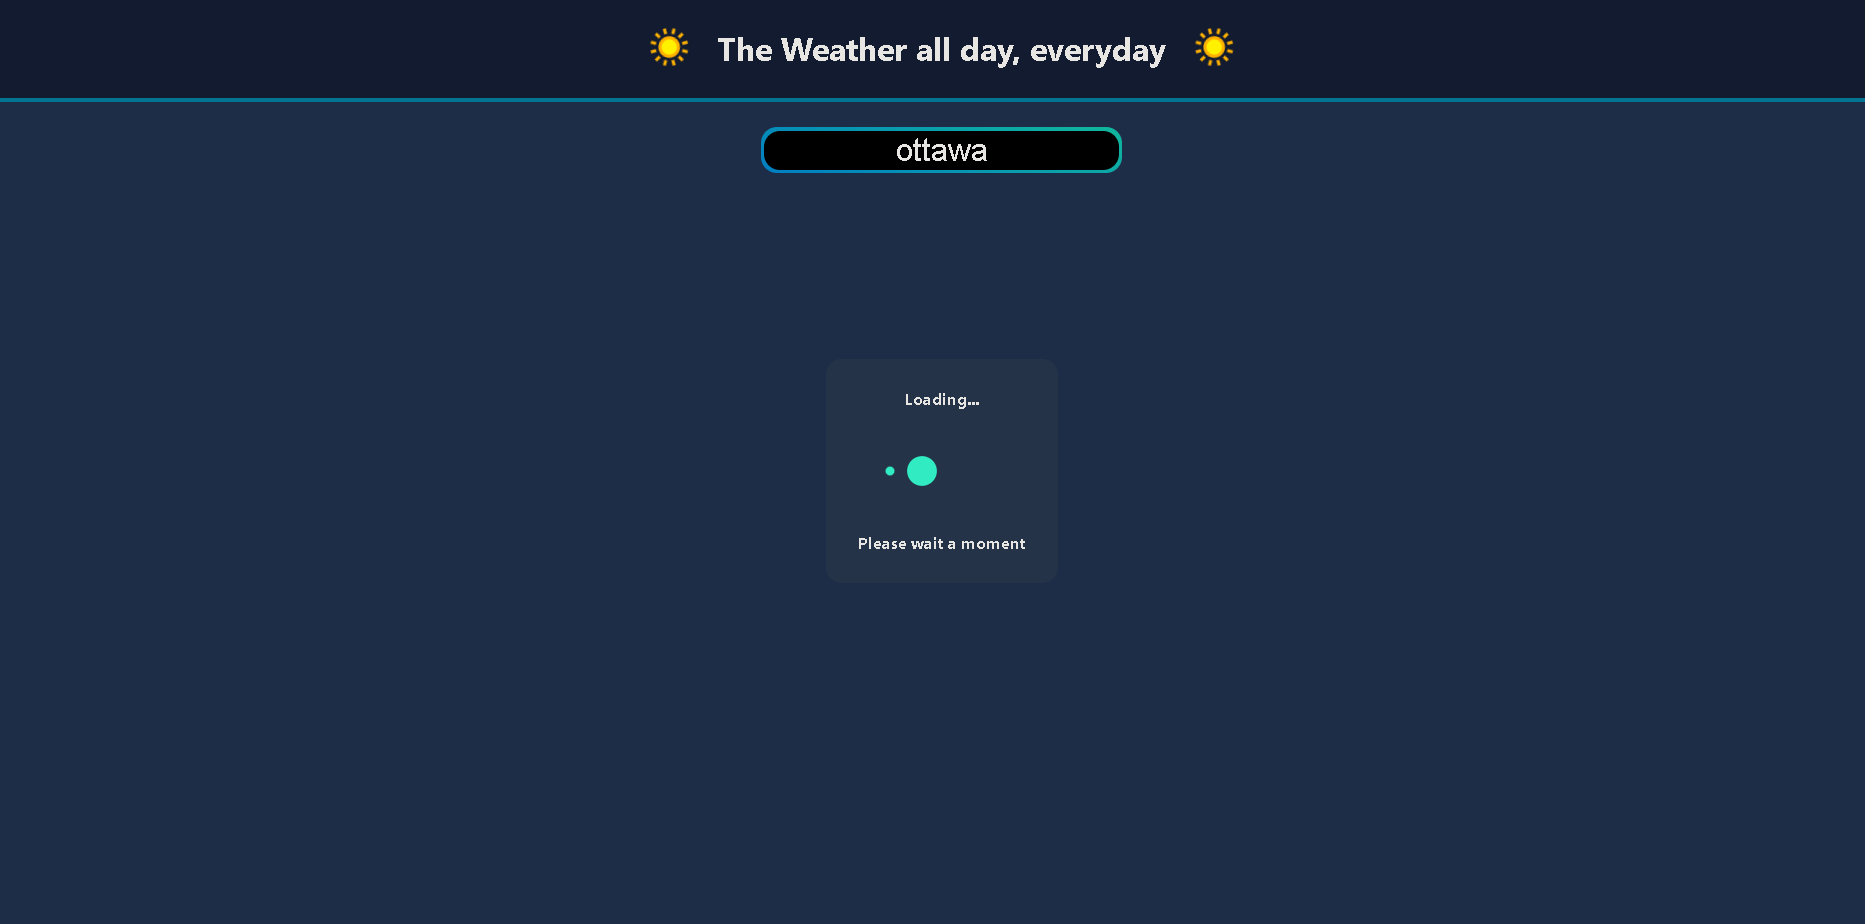
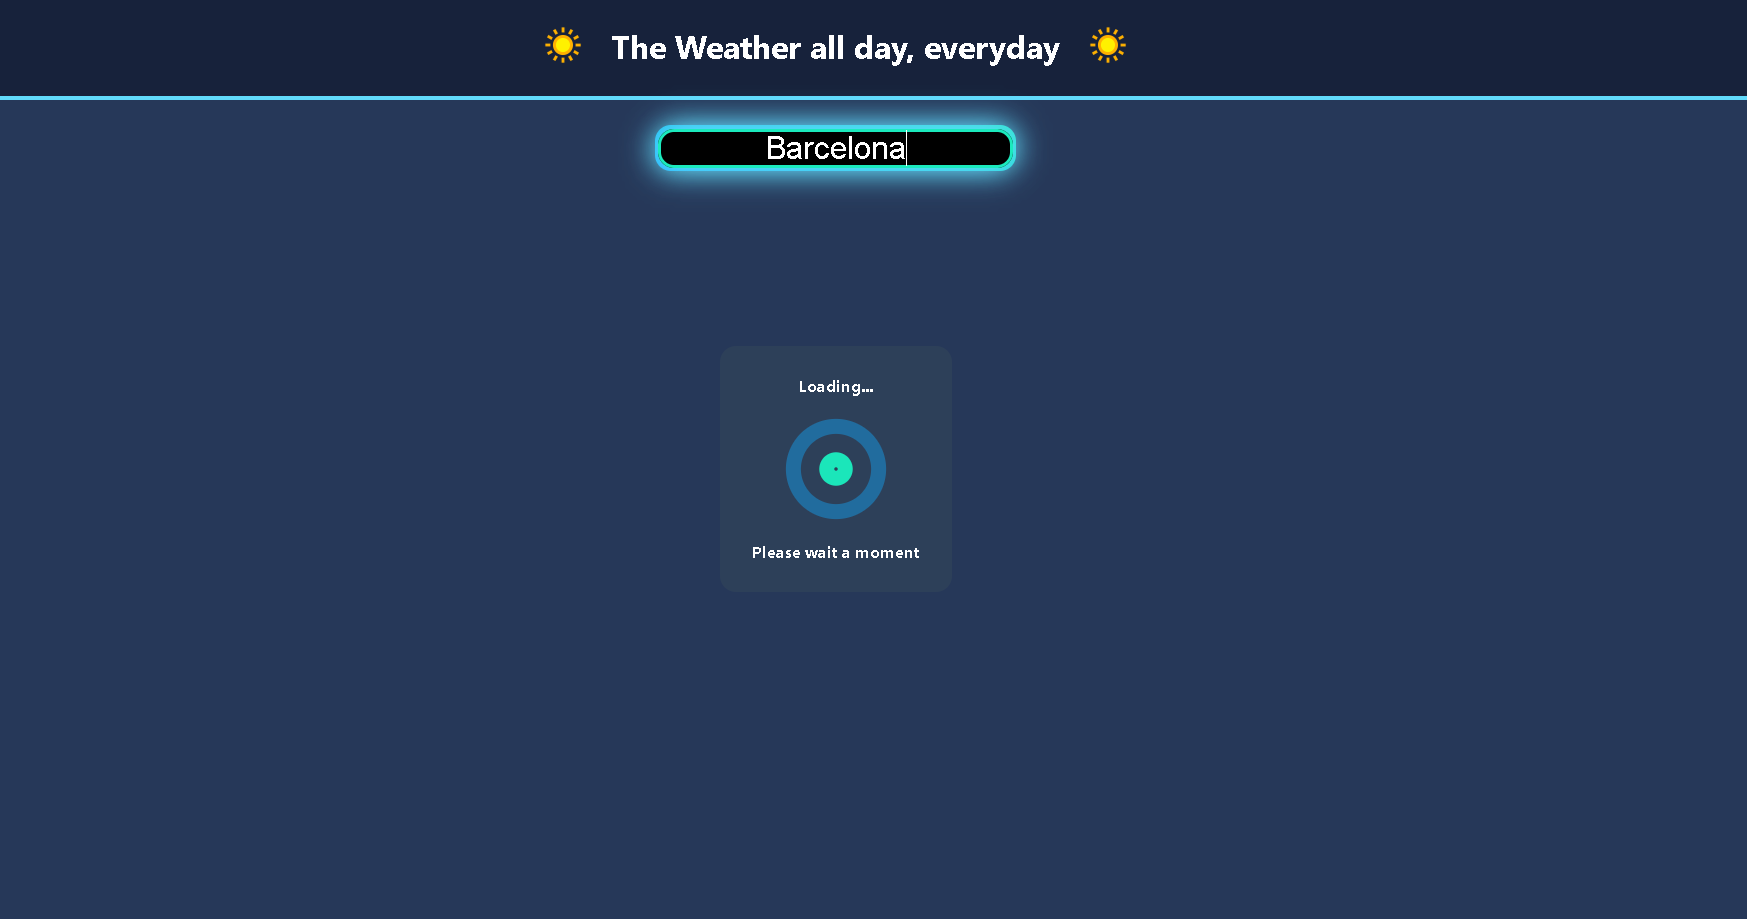
Readme and screenshots updated

Changed region(s): [[0.0, 0.0305, 1.0, 0.2437], [0.4327, 0.4266, 0.5564, 0.6094], [0.4637, 0.3961, 0.4946, 0.4266]]

diff --git a/README.md b/README.md
@@ -51,6 +51,8 @@ At the moment, the SPA is only prepared to work with screens with width greater 
 
 ### Loading info
 
+#### Using the LoadingSpinnerComponent type 'Ripple' from the 'react-spinners-components' package (https://www.npmjs.com/package/react-spinners-components / https://github.com/kazimkazam/react-spinners-components)
+
 ![image](https://github.com/kazimkazam/weather-app/blob/master/screenshots/loadingInfo.png?raw=true)
 
 ### Information display
